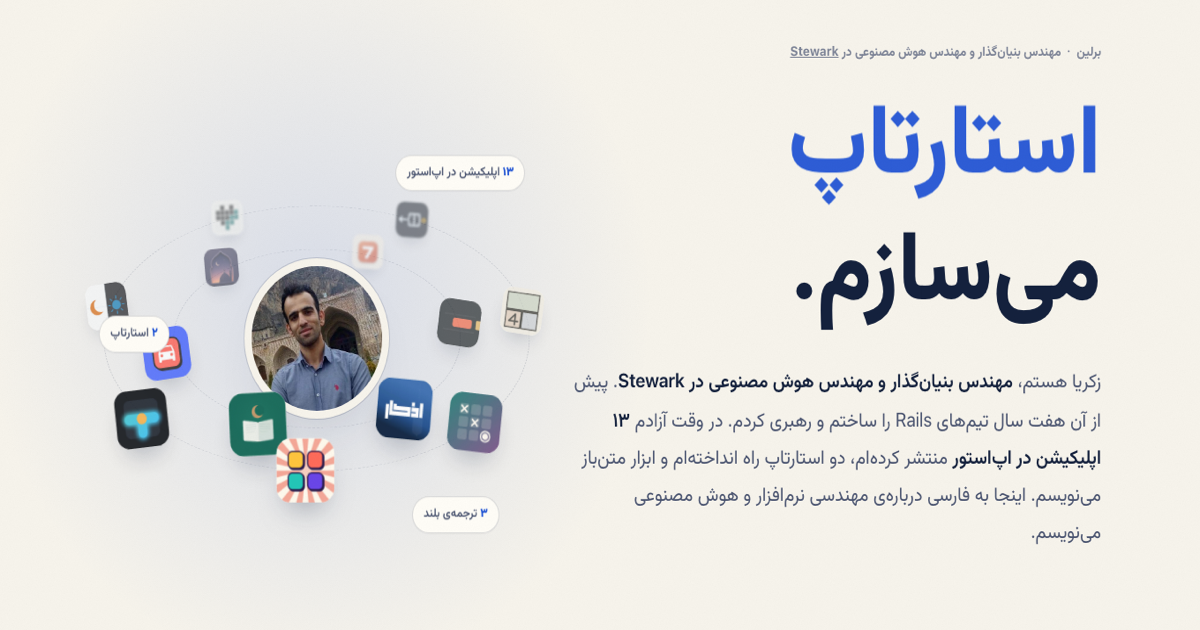
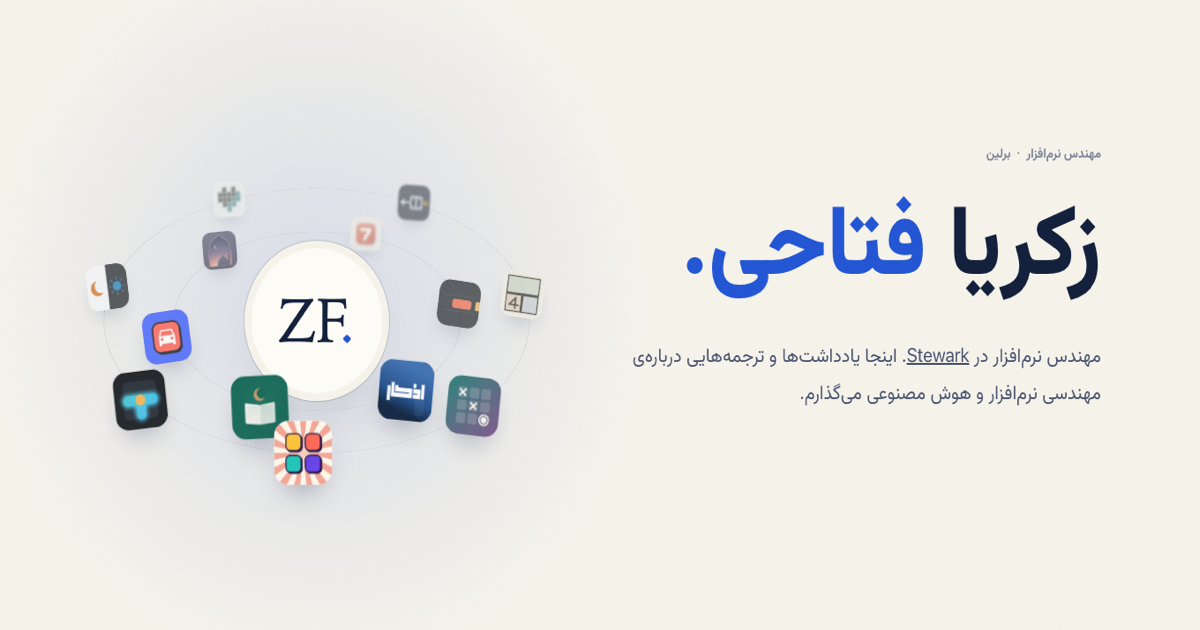
Say less about me: plain Persian copy, no photo
The hero is the name, «مهندس نرمافزار · برلین» and one sentence about
what the site holds. The rolling «… میسازم» headline and the floating
badges are gone; the app icons orbit a small ZF mark instead of my
photo, which is removed. Section titles are plain, the bio is three
facts, and the preview image is regenerated.

diff --git a/index.html b/index.html
@@ -11,23 +11,20 @@ body_class: home
   <div class="hero-glow" id="glow" aria-hidden="true"></div>
   <div class="wrap hero-grid">
     <div>
-      <div class="label rv" style="--d:1.1s">برلین &nbsp;·&nbsp; {{ d.now.role }} در <a href="{{ d.now.url }}" style="color:inherit" rel="noopener" lang="en">{{ d.now.company }}</a></div>
-      <h1><span class="roll" id="roll" aria-live="off"><span class="on">اپلیکیشن</span><span>استارتاپ</span><span>ابزار متنباز</span><span>ویدیوی آموزشی</span></span><br><span class="split" data-delay="1.15">میسازم.</span></h1>
-      <p class="lede rv" style="--d:1.6s">زکریا هستم، <b>مهندس بنیانگذار و مهندس هوش مصنوعی در <span lang="en">Stewark</span></b>. پیش از آن هفت سال تیمهای <span lang="en">Rails</span> را ساختم و رهبری کردم. در وقت آزادم <b>۱۳ اپلیکیشن در اپاستور</b> منتشر کردهام، دو استارتاپ راه انداختهام و ابزار متنباز مینویسم. اینجا به فارسی دربارهی مهندسی نرمافزار و هوش مصنوعی مینویسم.</p>
+      <div class="label rv" style="--d:1.1s">مهندس نرمافزار &nbsp;·&nbsp; برلین</div>
+      <h1><span class="split" data-delay="1.15">زکریا <em>فتاحی.</em></span></h1>
+      <p class="lede rv" style="--d:1.6s">مهندس نرمافزار در <a href="{{ d.now.url }}" rel="noopener" lang="en">{{ d.now.company }}</a>. اینجا یادداشتها و ترجمههایی دربارهی مهندسی نرمافزار و هوش مصنوعی میگذارم.</p>
       <div class="ctas rv" style="--d:1.75s">
-        <a class="btn solid" href="#writing">نوشتهها را بخوانید <span class="arr">←</span></a>
-        <a class="btn" href="{{ d.links.english }}" rel="noopener">نسخهی انگلیسی</a>
+        <a class="btn solid" href="#writing">نوشتهها <span class="arr">←</span></a>
+        <a class="btn" href="{{ d.links.english }}" rel="noopener" lang="en">English</a>
       </div>
     </div>
     <div class="rv" style="--d:1.25s">
       <div class="orbit" id="orbit" aria-hidden="true">
         <div class="ring" style="width:66%;height:66%"></div>
         <div class="ring" style="width:98%;height:98%"></div>
-        <div class="me"><img src="/assets/img/me.jpg" alt=""></div>
+        <div class="me mark"><span lang="en" dir="ltr">ZF<b>.</b></span></div>
         {% for a in site.data.apps %}<div class="app" data-ring="{% if forloop.index0 < 6 %}0{% else %}1{% endif %}"><img src="/assets/img/apps/{{ a.id }}.png" alt="" loading="eager"></div>{% endfor %}
-        <div class="tag" style="right:2%;top:12%"><b>۱۳</b> اپلیکیشن در اپاستور</div>
-        <div class="tag" style="left:0;top:46%;animation-delay:-2s"><b>۲</b> استارتاپ</div>
-        <div class="tag" style="right:8%;bottom:8%;animation-delay:-4s"><b>۳</b> ترجمهی بلند</div>
       </div>
     </div>
   </div>
@@ -38,7 +35,7 @@ body_class: home
   <div class="wrap">
     <div class="sec-head">
       <div><div class="label rv">نوشتهها</div><h2 class="split">یادداشتها و <em>ترجمهها.</em></h2></div>
-      <p class="sec-sub rv">متنهای مهمی دربارهی ساختن عاملهای هوش مصنوعی و مهارتهای نرم مهندسی، به فارسی روان.</p>
+      <p class="sec-sub rv">ترجمهی چند متن خواندنی دربارهی عاملهای هوش مصنوعی و مهارتهای نرم مهندسی.</p>
     </div>
     <div class="essays">
       {% for p in site.posts %}
@@ -61,7 +58,7 @@ body_class: home
     <div class="now">
       <div>
         <div class="label rv">اکنون</div>
-        <h2 class="split">مهندس بنیانگذار در <em lang="en">Stewark.</em></h2>
+        <h2 class="split">در <em lang="en">Stewark.</em></h2>
       </div>
       <div class="rv">
         <p>{{ d.now.line }}</p>
@@ -74,8 +71,8 @@ body_class: home
 <section id="apps" style="background:var(--bg-soft);border-top:1px solid var(--border-soft);border-bottom:1px solid var(--border-soft)">
   <div class="wrap">
     <div class="sec-head">
-      <div><div class="label rv">اپلیکیشنها</div><h2 class="split">برای فارسیزبانها، <em>آفلاین و رایگان.</em></h2></div>
-      <p class="sec-sub rv">بدون حساب کاربری، بدون سرور و بدون ردیابی.</p>
+      <div><div class="label rv">اپلیکیشنها</div><h2 class="split"><em>اپلیکیشنها.</em></h2></div>
+      <p class="sec-sub rv">چند اپلیکیشن کوچک برای فارسیزبانها؛ آفلاین، بدون حساب کاربری.</p>
     </div>
     <div class="fa-apps">
       {% for a in persian %}
@@ -89,7 +86,7 @@ body_class: home
     </div>
     <a class="games rv" href="{{ d.links.english }}/#apps" rel="noopener">
       <span class="icons">{% for a in games %}<img src="/assets/img/apps/{{ a.id }}.png" alt="" loading="lazy" style="--i:{{ forloop.index0 }}">{% endfor %}</span>
-      <span>و <b>۹ بازی فکری</b> به انگلیسی، با پازلهایی که همیشه دقیقاً یک جواب دارند <span class="arr">←</span></span>
+      <span>چند بازی فکری هم به انگلیسی هست <span class="arr">←</span></span>
     </a>
   </div>
 </section>
@@ -97,8 +94,8 @@ body_class: home
 <section id="startups">
   <div class="wrap">
     <div class="sec-head">
-      <div><div class="label rv">استارتاپها</div><h2 class="split">چیزهایی که <em>راه انداختم.</em></h2></div>
-      <p class="sec-sub rv">محصولاتی که کنار کار اصلیام ساختم و هر دو فعالاند.</p>
+      <div><div class="label rv">استارتاپها</div><h2 class="split">پروژههای <em>جانبی.</em></h2></div>
+      <p class="sec-sub rv">کنار کار اصلی.</p>
     </div>
     <div class="startups">
       {% for s in d.startups %}
@@ -111,7 +108,7 @@ body_class: home
       {% endfor %}
     </div>
     <div class="closed">
-      <div class="label rv">به نتیجه نرسیدند</div>
+      <div class="label rv">تعطیلشده</div>
       {% for c in d.closed %}
       <div class="closed-row rv" style="--d:{{ forloop.index0 | times: 0.08 }}s">
         <span class="when">{{ c.when }}</span>
@@ -126,8 +123,8 @@ body_class: home
 <section id="videos" style="background:var(--bg-soft);border-top:1px solid var(--border-soft);border-bottom:1px solid var(--border-soft)">
   <div class="wrap">
     <div class="sec-head">
-      <div><div class="label rv">یوتیوب · <span lang="en">{{ d.youtube.series }}</span></div><h2 class="split">پنجاه اپلیکیشن، <em>جلوی دوربین.</em></h2></div>
-      <a class="more rv" href="{{ d.youtube.channel }}" rel="noopener">کانال یوتیوب (به انگلیسی) <span>↖</span></a>
+      <div><div class="label rv">یوتیوب</div><h2 class="split" lang="en" dir="ltr" style="text-align:right">50 Apps <em>Challenge.</em></h2></div>
+      <a class="more rv" href="{{ d.youtube.channel }}" rel="noopener">یوتیوب (به انگلیسی) <span>↖</span></a>
     </div>
     <div class="videos">
       {% for v in d.youtube.videos %}
@@ -143,7 +140,7 @@ body_class: home
 <section id="about">
   <div class="wrap">
     <div class="label rv">دربارهی من</div>
-    <p class="fa-bio rv">کارم را با کار آزاد و تدریس کامپیوتر در کرمانشاه شروع کردم، در یک استارتاپ همبنیانگذار بودم، به برلین رفتم و هفت سال در <span lang="en">Buzzjective</span> از برنامهنویس <span lang="en">Rails</span> تا مدیر فنی تیم رشد کردم. حالا مهندس بنیانگذار <span lang="en">Stewark</span> هستم و در وقت آزادم <em>اپلیکیشنهای کوچک و دقیق</em> میسازم و آنچه یاد میگیرم را اینجا به فارسی مینویسم.</p>
-    <a class="more rv" href="{{ d.links.english }}/#about" rel="noopener">سوابق کامل در <span lang="en" dir="ltr">zakaria.dev</span> <span>↖</span></a>
+    <p class="fa-bio rv">از کار آزاد و تدریس کامپیوتر در کرمانشاه شروع کردم، بعد به برلین آمدم و هفت سال در تیم <span lang="en">Rails</span> شرکت <span lang="en">Buzzjective</span> کار کردم. حالا در <span lang="en">Stewark</span> هستم.</p>
+    <a class="more rv" href="{{ d.links.english }}/#about" rel="noopener">سوابق در <span lang="en" dir="ltr">zakaria.dev</span> <span>↖</span></a>
   </div>
 </section>

diff --git a/assets/css/fa.css b/assets/css/fa.css
@@ -76,3 +76,9 @@ h3[lang="en"],h4[lang="en"],em[lang="en"]{font-family:"Iowan Old Style","Charter
 /* In a right-to-left page, overflow on the left is scrollable: park the skip link above the page instead. */
 .skip{left:auto;right:8px;top:8px;transform:translateY(-300%)}
 .skip:focus{left:auto;transform:none}
+
+/* the quiet mark at the centre of the orbit */
+.orbit .me.mark{display:grid;place-items:center;background:var(--panel)}
+.orbit .me.mark span{font-family:"Iowan Old Style","Charter",Georgia,serif;font-weight:400;font-size:clamp(34px,5vw,64px);color:var(--text)}
+.orbit .me.mark b{color:var(--accent);font-weight:400}
+.hero h1 em{color:var(--accent)}
